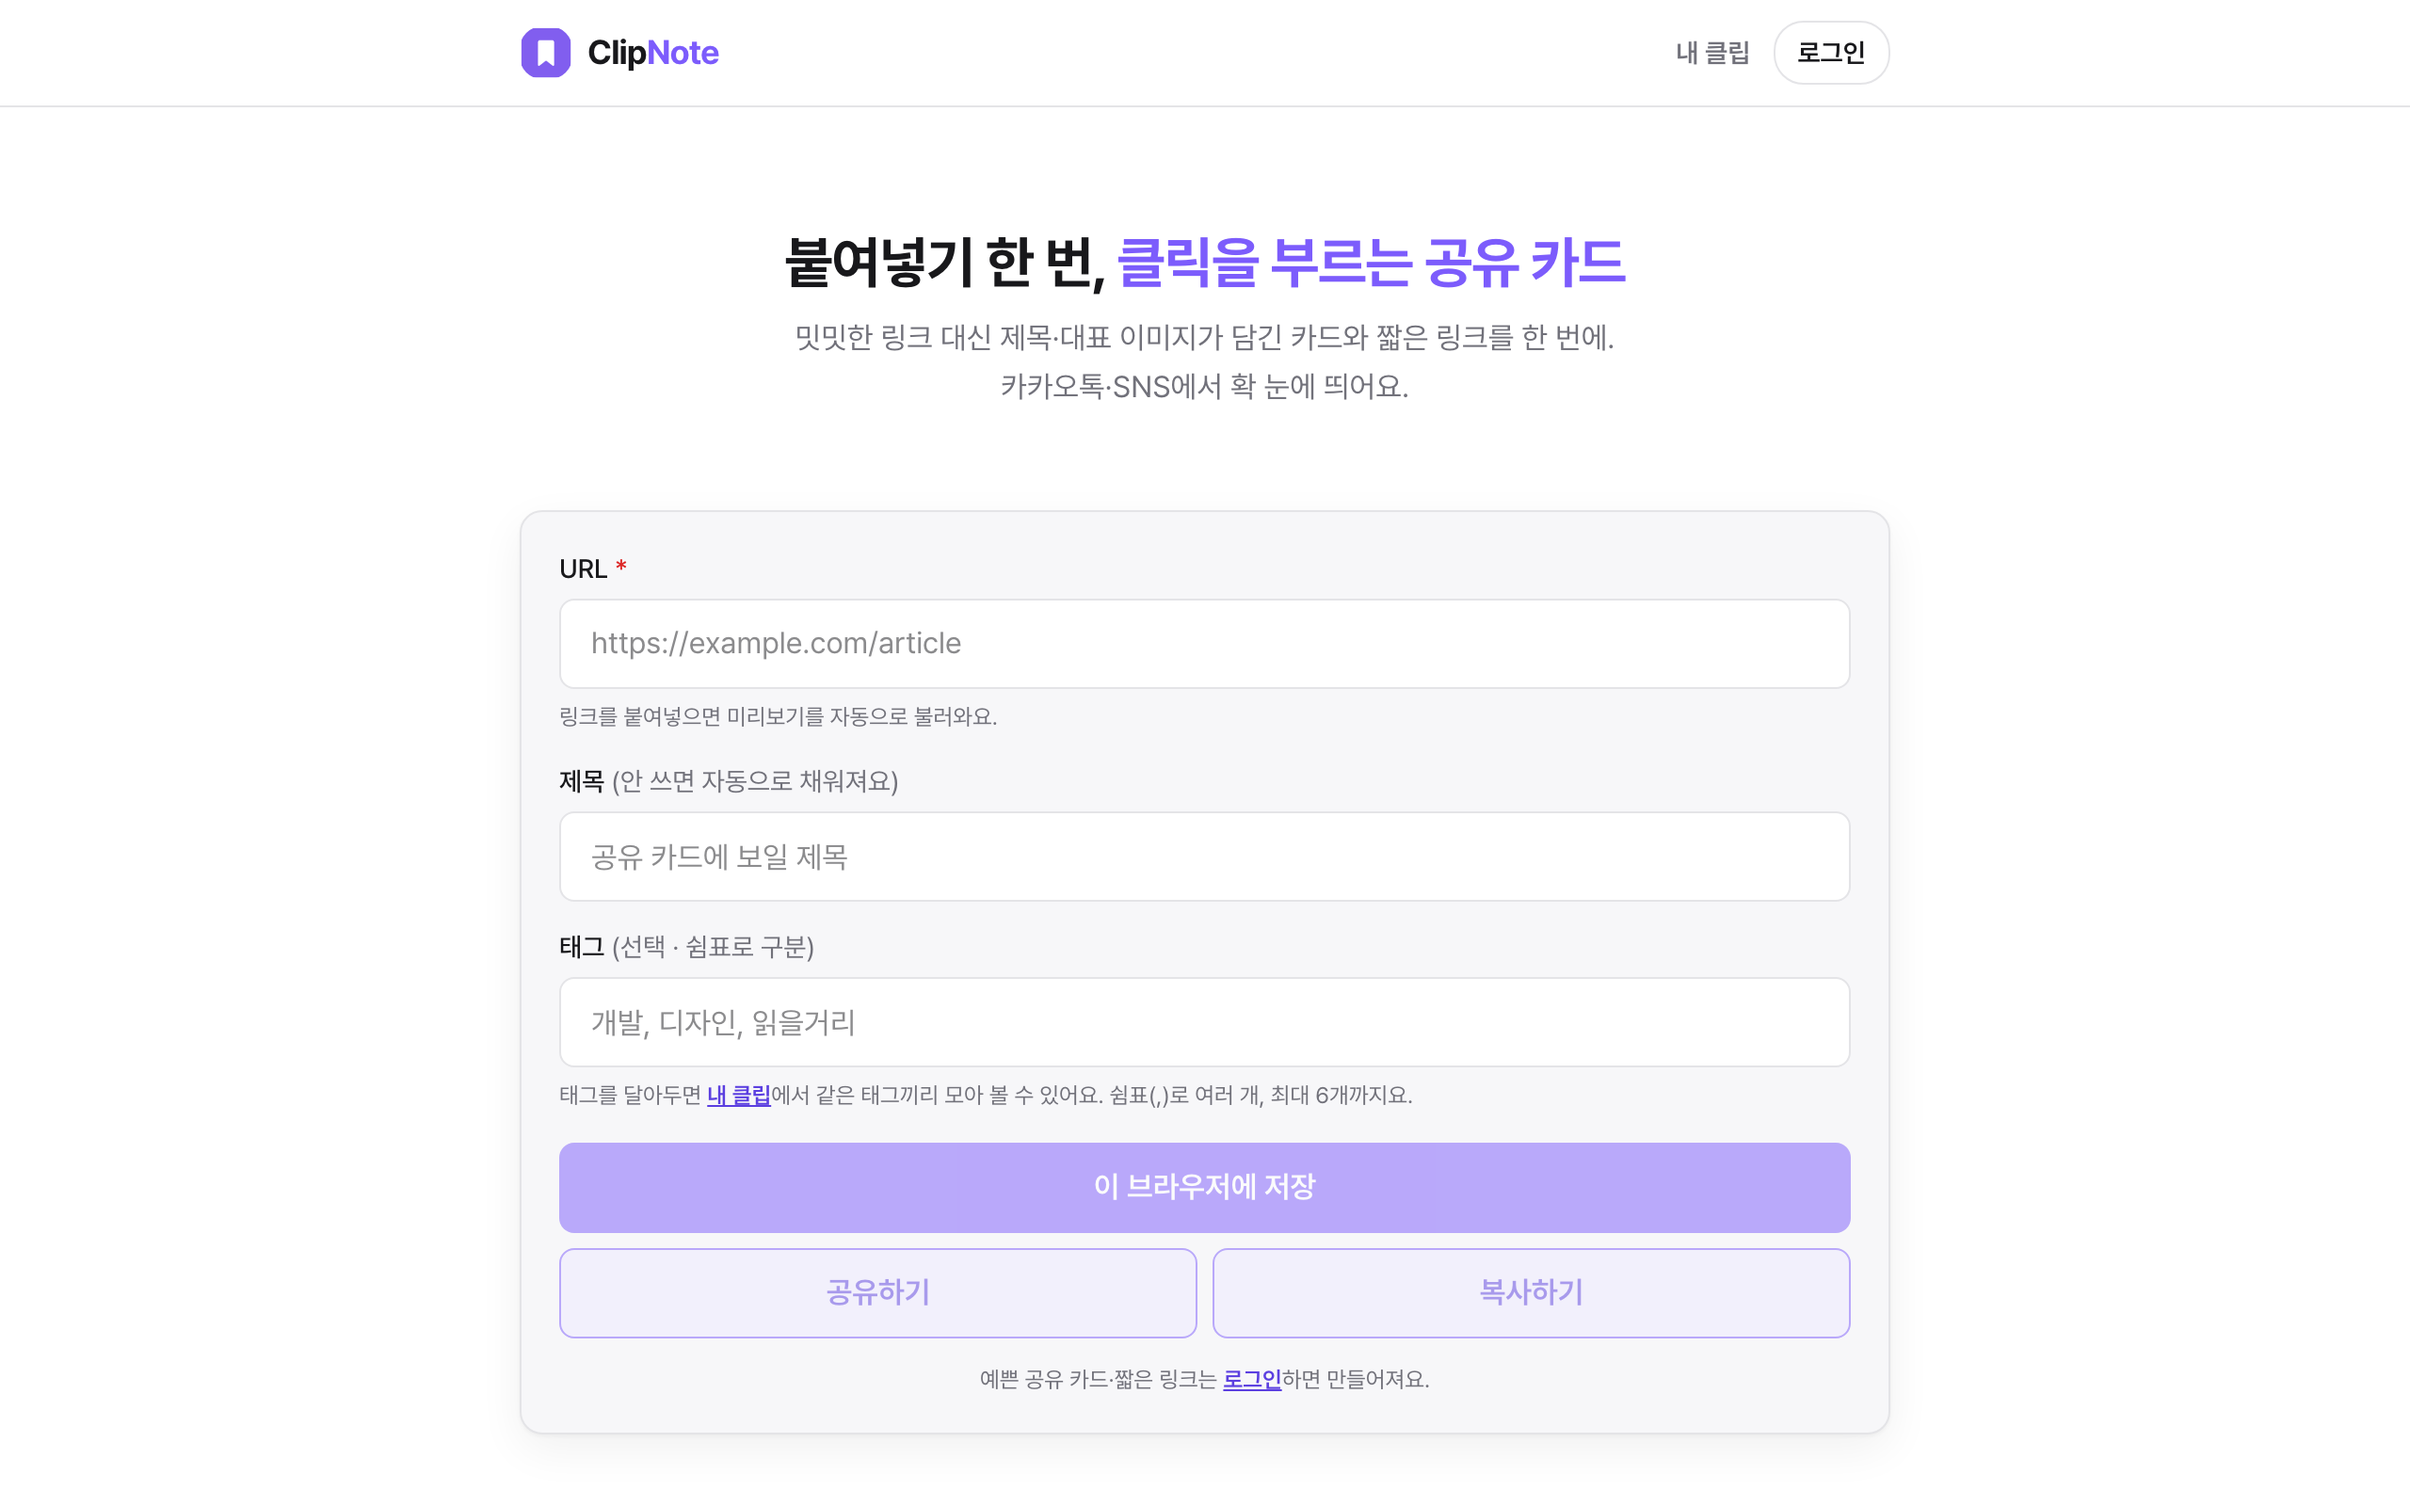
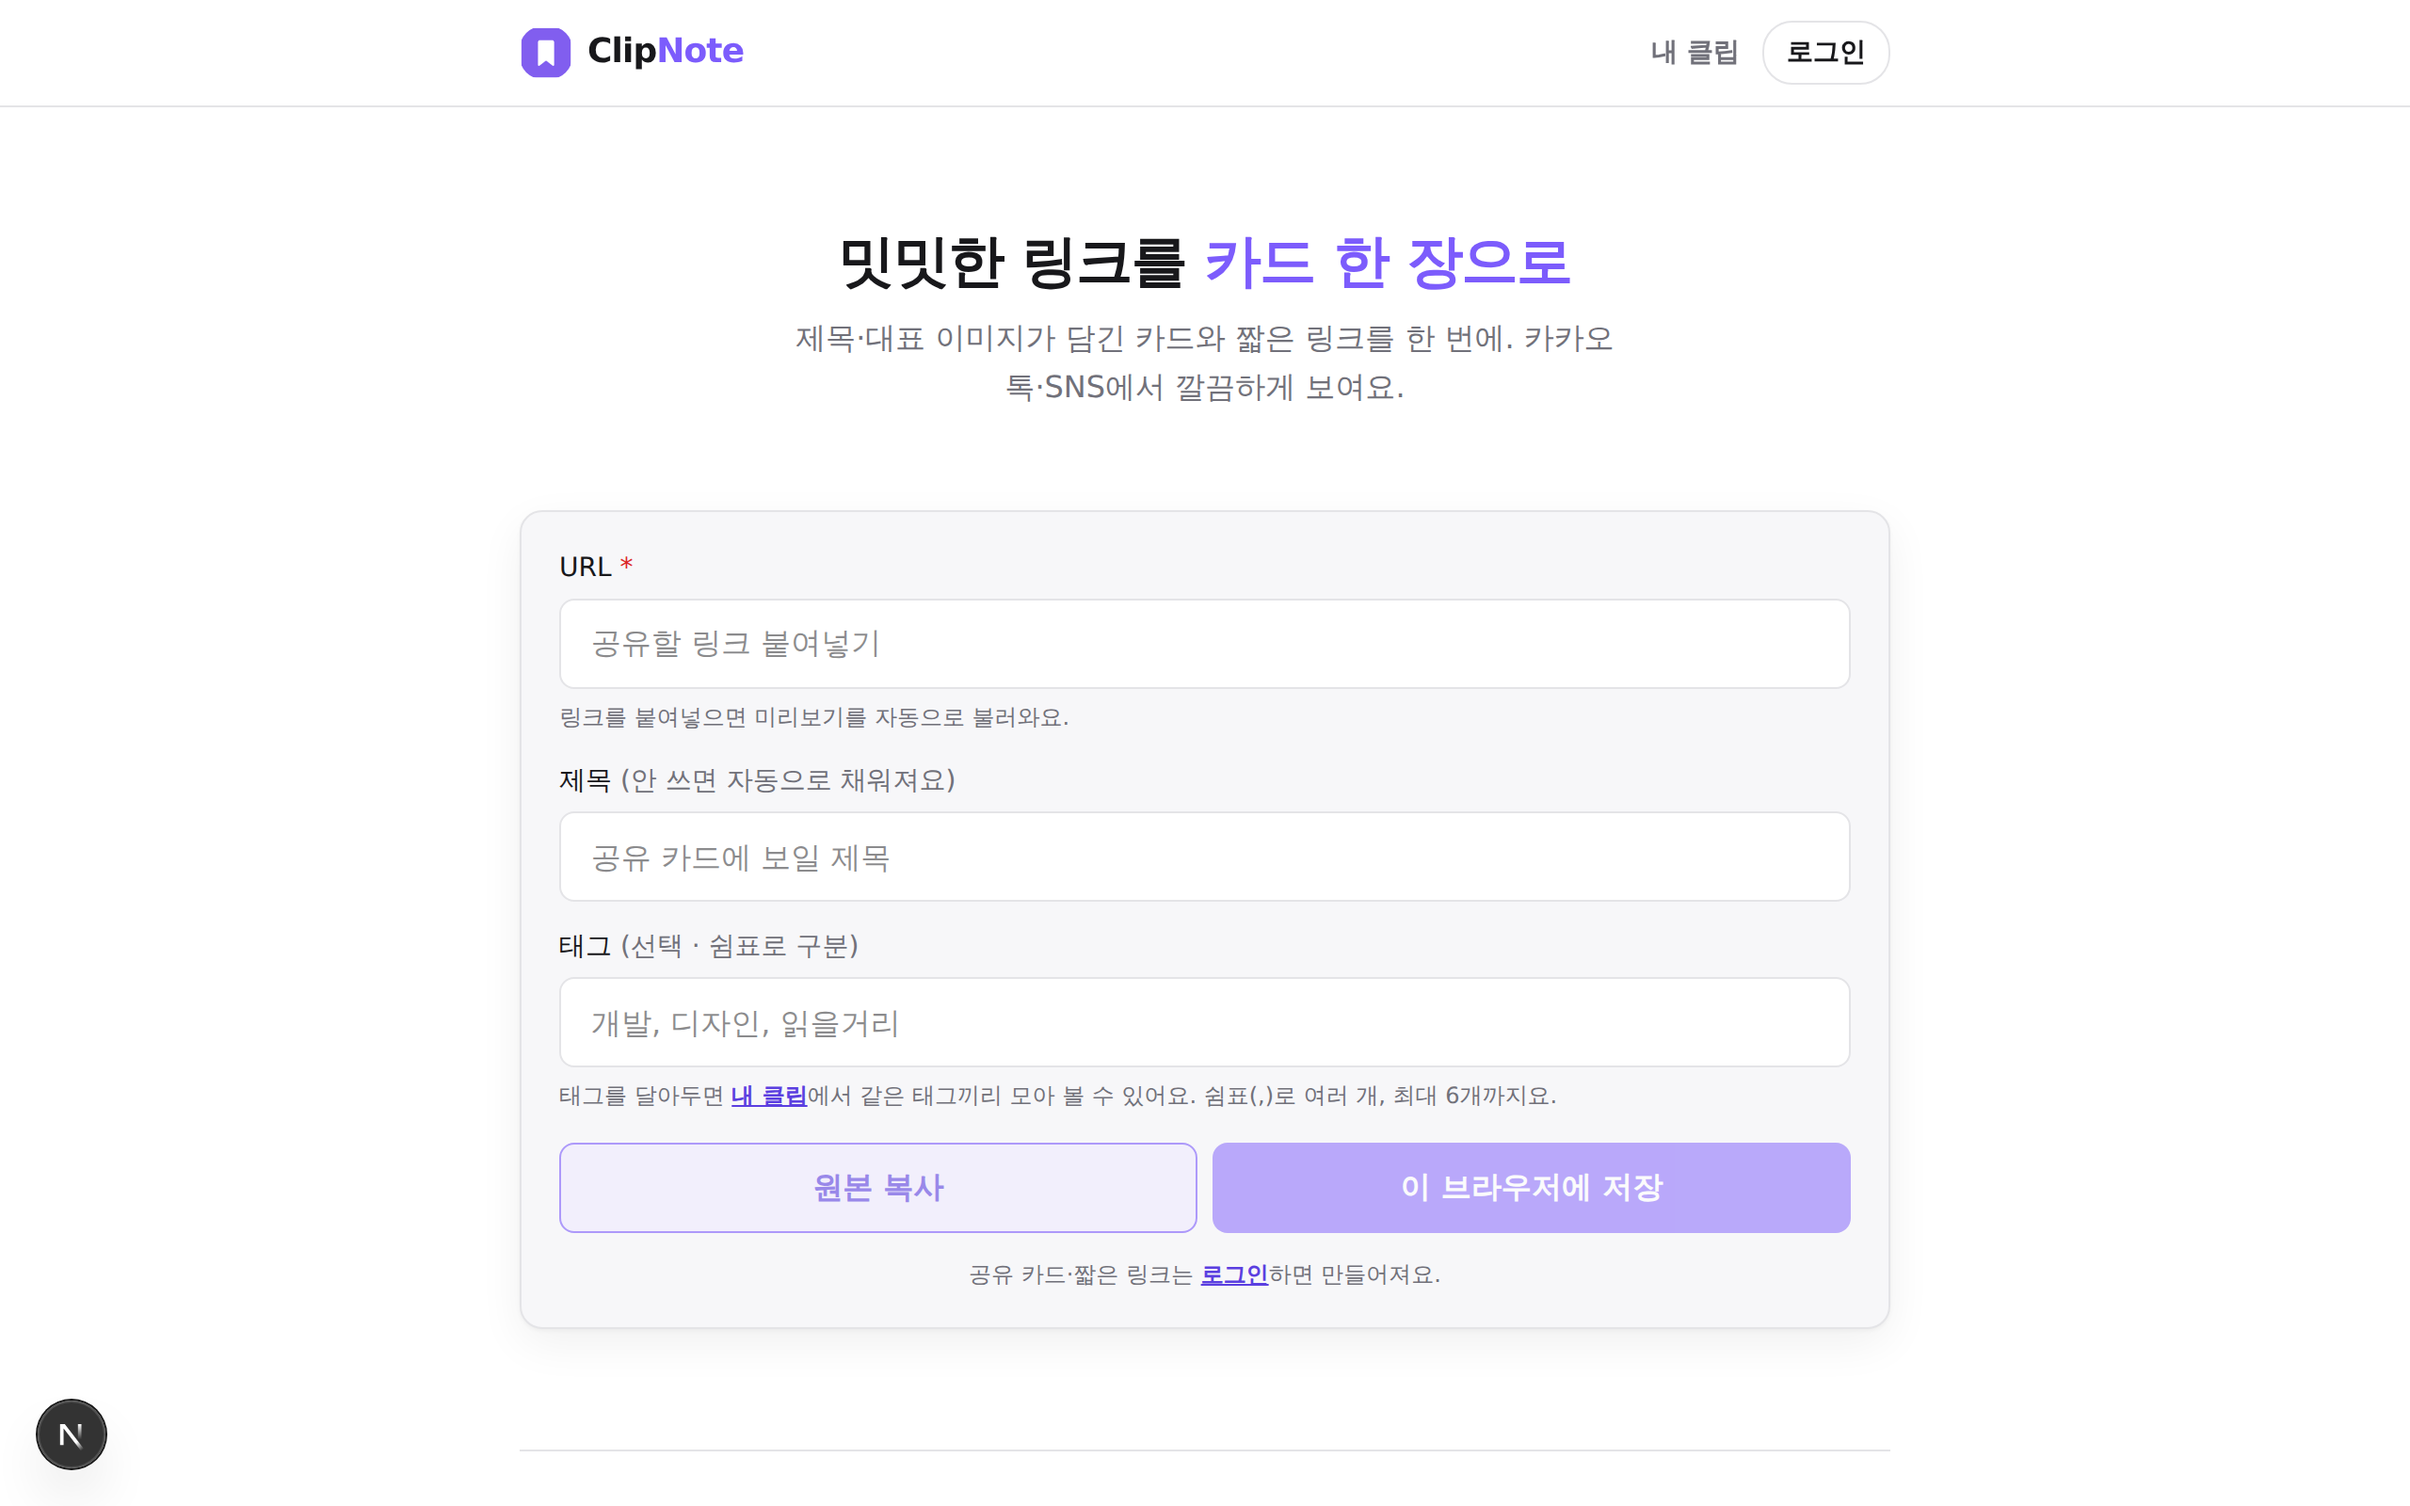
feat: ClipNote·Take a Seat 스크린샷 및 소개 문구를 현재 서비스 기준으로 갱신
기존 스크린샷이 오래돼 실제 화면과 달랐다. 두 서비스 저장소를 받아
로컬에서 직접 구동하고 현재 화면을 캡처했다.

- Take a Seat: 로그인 없이 접근하면 /about(소개 페이지)로 리다이렉트되어
  기존 캡처가 소개 화면이었다. 게스트 모드로 온보딩을 마친 뒤 실제 제품
  화면(주별 예약 캘린더 + 사이드바)을 캡처. 예약·고객 데이터는 화면 설명을
  위한 데모 데이터(매장 '라운지 헤어', 가상 고객명)다.
- ClipNote: 헤드라인·버튼 구성이 바뀌어 현재 랜딩 화면으로 교체
  ('밋밋한 링크를 카드 한 장으로', 원본 복사 / 이 브라우저에 저장).

소개 문구도 각 서비스의 현재 화면·안내 문구에 맞춰 다시 작성:
- ClipNote: 태그라인 교체, 기능 6개(자동 미리보기·짧은 링크·원본 복사·
  태그 정리·비로그인 저장·네이버 카페/인스타그램 추출)
- Take a Seat: 기능에 온라인 예약 페이지, 게스트 체험 추가하고
  캘린더 보기 범위를 일·3일·주·월·연으로 정정

Claude-Session: https://claude.ai/code/session_01Br1EPsg18DCiGB6ygBpvqH

diff --git a/app/data/products.js b/app/data/products.js
@@ -2,31 +2,39 @@ export const PRODUCTS = [
   {
     slug: 'clipnote',
     name: 'ClipNote',
-    tagline: '붙여넣기 한 번, 클릭을 부르는 공유 카드',
-    desc: '밋밋한 링크 대신 제목·대표 이미지가 담긴 카드와 짧은 링크로 공유합니다.',
+    tagline: '밋밋한 링크를 카드 한 장으로',
+    desc: '제목·대표 이미지가 담긴 카드와 짧은 링크를 한 번에. 카카오톡·SNS에서 깔끔하게 보입니다.',
     href: 'https://clipnote.co.kr',
     ctaLabel: 'ClipNote 사용해보기',
     shot: '/shots/clipnote.png',
     monogram: 'C',
     accent: '#6526d9',
     summary:
-      '링크를 붙여넣으면 미리보기를 자동으로 불러와 제목·대표 이미지가 담긴 공유 카드와 짧은 링크를 만들어 줍니다. 카카오톡·SNS에 그대로 올려도 확 눈에 띕니다.',
+      '링크를 붙여넣으면 제목·설명·대표 이미지를 자동으로 읽어와, 카카오톡·SNS에서 한눈에 들어오는 카드와 짧은 주소를 만들어 줍니다. 미리보기가 잘 잡히지 않는 네이버 카페·인스타그램 링크도 됩니다.',
     features: [
       {
         title: '붙여넣기 한 번',
-        desc: 'URL을 넣으면 제목과 대표 이미지를 자동으로 불러옵니다. 제목을 비워두면 알아서 채워집니다.',
+        desc: 'URL을 넣으면 제목·설명·대표 이미지를 자동으로 불러옵니다. 제목을 비워두면 알아서 채워집니다.',
+      },
+      {
+        title: '카드로 열리는 짧은 링크',
+        desc: '링크를 만들면 공유 카드가 먼저 보인 뒤 원본으로 자연스럽게 넘어갑니다.',
+      },
+      {
+        title: '원본 복사',
+        desc: '카드를 거치지 않고 보내고 싶을 땐 제목과 원본 주소를 함께 복사합니다.',
       },
       {
         title: '태그로 정리',
-        desc: '쉼표로 최대 6개까지 태그를 달아두면 «내 클립»에서 같은 태그끼리 모아 볼 수 있습니다.',
+        desc: '쉼표로 최대 6개까지. «내 클립»에서 태그별로 모아 보고, 자주 쓴 태그는 다음에 추천됩니다.',
       },
       {
-        title: '로그인 없이 저장',
-        desc: '가입 전이라면 이 브라우저에 바로 저장해두고, 필요할 때 공유하거나 복사하세요.',
+        title: '로그인 없이도',
+        desc: '이 브라우저에 저장해 «내 클립»에서 다시 볼 수 있습니다. 짧은 공유 링크만 로그인이 필요합니다.',
       },
       {
-        title: '공유 카드와 짧은 링크',
-        desc: '로그인하면 예쁜 공유 카드와 짧은 링크가 만들어져, 어디에 올려도 클릭을 부릅니다.',
+        title: '까다로운 링크도',
+        desc: '네이버 카페 게시글, 인스타그램 릴·게시물 정보까지 전용 추출로 가져옵니다.',
       },
     ],
   },
@@ -41,11 +49,11 @@ export const PRODUCTS = [
     monogram: 'T',
     accent: '#ec4899',
     summary:
-      '예약 캘린더, 고객 정보, 담당자 스케줄, 매출 집계까지 매장 운영에 필요한 기능을 한 곳에 모았습니다. 여러 도구를 오가지 않아도 하루 운영이 정리됩니다.',
+      '예약 캘린더, 고객 정보, 담당자 스케줄, 매출 집계까지 매장 운영에 필요한 기능을 한 곳에 모았습니다. 가입 없이 게스트로 먼저 써보고, 로그인하면 그대로 이어서 쓸 수 있습니다.',
     features: [
       {
         title: '예약 캘린더',
-        desc: '일·주·월 보기로 예약을 한눈에 확인하고 관리합니다.',
+        desc: '일·3일·주·월·연 보기로 예약을 한눈에 확인하고 관리합니다.',
       },
       {
         title: '고객 관리',
@@ -58,6 +66,14 @@ export const PRODUCTS = [
       {
         title: '결제·매출',
         desc: '결제 내역과 매출을 기록하고 자동으로 집계합니다.',
+      },
+      {
+        title: '온라인 예약 페이지',
+        desc: '고객이 직접 예약할 수 있는 공개 예약 페이지를 매장별로 제공합니다.',
+      },
+      {
+        title: '가입 없이 체험',
+        desc: '게스트 모드로 브라우저에 저장하며 먼저 써보고, 로그인하면 모든 기기에서 이어집니다.',
       },
     ],
   },
